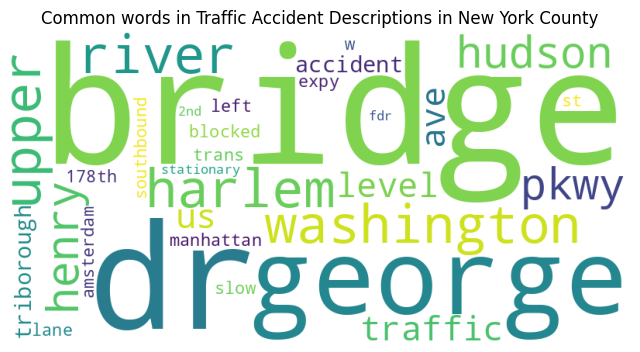
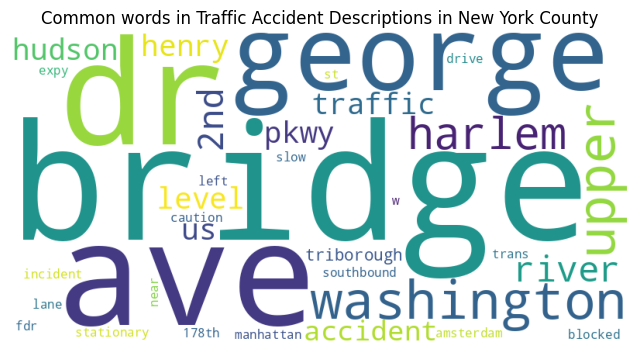
Built site for gh-pages

diff --git a/posts/final_proj.html b/posts/final_proj.html
@@ -212,15 +212,15 @@ pre > code.sourceCode > span > a:first-child::before { text-decoration: underlin
 <p>My dataset is from Kaggle regarding US traffic accidents from 2016-2023 that has data obtained from various places like US and State departments of transportation, and law enforcement agencies. I condensed the original dataset down from 500k entries to around 1500 entries as the file was too large for efficient analysis and visualization. This dataset provides a detailed account of traffic accidents in the United States from February 2016 to March 2023, covering 49 states, and includes key factors like the date, time, city, state, county, weather conditions, severity, etc. of each accident. There is also a description of each accident that can offer a qualitative aspect to this project.</p>
 <p>When conducting data analysis I made sure the columns were in the correct date time format so the data could easily be extracted for visualizations requiring time related features or progressions. I also made sure to handle missing values and filter them out when performing my analysis. I used different libraries for analysis, including Pandas, Matplotlib for plotting the visualizations, and the Natural Language Toolkit (nltk) for text analysis, and wordcloud.</p>
 <p>Source of Dataset:<a href="https://www.kaggle.com/datasets/sobhanmoosavi/us-accidents">Traffic Accident Data</a></p>
-<div id="ec58b350" class="cell" data-execution_count="34">
+<div id="ec58b350" class="cell" data-execution_count="26">
 <div class="sourceCode cell-code" id="cb1"><pre class="sourceCode python code-with-copy"><code class="sourceCode python"><span id="cb1-1"><a href="#cb1-1" aria-hidden="true" tabindex="-1"></a><span class="im">import</span> pandas <span class="im">as</span> pd</span>
 <span id="cb1-2"><a href="#cb1-2" aria-hidden="true" tabindex="-1"></a><span class="im">import</span> matplotlib.pyplot <span class="im">as</span> plt</span>
 <span id="cb1-3"><a href="#cb1-3" aria-hidden="true" tabindex="-1"></a></span></code><button title="Copy to Clipboard" class="code-copy-button"><i class="bi"></i></button></pre></div>
 </div>
-<div id="d318cbe5" class="cell" data-execution_count="35">
+<div id="d318cbe5" class="cell" data-execution_count="27">
 <div class="sourceCode cell-code" id="cb2"><pre class="sourceCode python code-with-copy"><code class="sourceCode python"><span id="cb2-1"><a href="#cb2-1" aria-hidden="true" tabindex="-1"></a>traffic_df <span class="op">=</span> pd.read_csv(<span class="st">'https://raw.githubusercontent.com/sachigill/dhfinalproject/main/traffic_accident_data.csv'</span>)</span></code><button title="Copy to Clipboard" class="code-copy-button"><i class="bi"></i></button></pre></div>
 </div>
-<div id="07d0b8d2" class="cell" data-scrolled="true" data-execution_count="36">
+<div id="07d0b8d2" class="cell" data-scrolled="true" data-execution_count="28">
 <div class="sourceCode cell-code" id="cb3"><pre class="sourceCode python code-with-copy"><code class="sourceCode python"><span id="cb3-1"><a href="#cb3-1" aria-hidden="true" tabindex="-1"></a>plt.figure(figsize<span class="op">=</span>(<span class="dv">12</span>, <span class="dv">8</span>))</span>
 <span id="cb3-2"><a href="#cb3-2" aria-hidden="true" tabindex="-1"></a>traffic_df[<span class="st">'Weather_Condition'</span>].value_counts().plot(kind<span class="op">=</span><span class="st">'bar'</span>)</span>
 <span id="cb3-3"><a href="#cb3-3" aria-hidden="true" tabindex="-1"></a>plt.xlabel(<span class="st">'Weather Condition'</span>)</span>
@@ -236,7 +236,7 @@ pre > code.sourceCode > span > a:first-child::before { text-decoration: underlin
 </div>
 </div>
 <p>Here in this visualization I analyzed accidents by weather condition, where it shows that the largest number of accidents seems to happen in fair weather, with mostly cloudy, clear, cloudy, partly cloudy, and overcast trailing behind that. This could be due to the fact that fair or cloudy weather is typically common so more accidents happen due to the sheer amount that this weather is present in daily life.</p>
-<div id="840b9dc6" class="cell" data-execution_count="53">
+<div id="840b9dc6" class="cell" data-execution_count="29">
 <div class="sourceCode cell-code" id="cb4"><pre class="sourceCode python code-with-copy"><code class="sourceCode python"><span id="cb4-1"><a href="#cb4-1" aria-hidden="true" tabindex="-1"></a><span class="im">from</span> wordcloud <span class="im">import</span> WordCloud</span>
 <span id="cb4-2"><a href="#cb4-2" aria-hidden="true" tabindex="-1"></a><span class="im">import</span> nltk</span>
 <span id="cb4-3"><a href="#cb4-3" aria-hidden="true" tabindex="-1"></a><span class="im">import</span> re</span>
@@ -262,24 +262,26 @@ pre > code.sourceCode > span > a:first-child::before { text-decoration: underlin
 [nltk_data]   Package stopwords is already up-to-date!</code></pre>
 </div>
 </div>
-<div id="02f3e09c" class="cell" data-execution_count="54">
-<div class="sourceCode cell-code" id="cb6"><pre class="sourceCode python code-with-copy"><code class="sourceCode python"><span id="cb6-1"><a href="#cb6-1" aria-hidden="true" tabindex="-1"></a>county <span class="op">=</span> <span class="st">'Los Angeles'</span></span>
-<span id="cb6-2"><a href="#cb6-2" aria-hidden="true" tabindex="-1"></a>traffic_df_location <span class="op">=</span> traffic_df[traffic_df[<span class="st">'County'</span>] <span class="op">==</span> county]</span>
+<div id="02f3e09c" class="cell" data-execution_count="30">
+<div class="sourceCode cell-code" id="cb6"><pre class="sourceCode python code-with-copy"><code class="sourceCode python"><span id="cb6-1"><a href="#cb6-1" aria-hidden="true" tabindex="-1"></a>traffic_df[<span class="st">'description_final'</span>] <span class="op">=</span> traffic_df[<span class="st">'Description'</span>].<span class="bu">apply</span>(<span class="kw">lambda</span> x: text_process(x, stop_words))</span>
+<span id="cb6-2"><a href="#cb6-2" aria-hidden="true" tabindex="-1"></a></span>
 <span id="cb6-3"><a href="#cb6-3" aria-hidden="true" tabindex="-1"></a></span>
-<span id="cb6-4"><a href="#cb6-4" aria-hidden="true" tabindex="-1"></a></span>
-<span id="cb6-5"><a href="#cb6-5" aria-hidden="true" tabindex="-1"></a>traffic_df[<span class="st">'description_final'</span>] <span class="op">=</span> traffic_df[<span class="st">'Description'</span>].<span class="bu">apply</span>(<span class="kw">lambda</span> x: text_process(x, stop_words))</span>
+<span id="cb6-4"><a href="#cb6-4" aria-hidden="true" tabindex="-1"></a>county <span class="op">=</span> <span class="st">'Los Angeles'</span></span>
+<span id="cb6-5"><a href="#cb6-5" aria-hidden="true" tabindex="-1"></a>traffic_df_location <span class="op">=</span> traffic_df[traffic_df[<span class="st">'County'</span>] <span class="op">==</span> county]</span>
 <span id="cb6-6"><a href="#cb6-6" aria-hidden="true" tabindex="-1"></a></span>
-<span id="cb6-7"><a href="#cb6-7" aria-hidden="true" tabindex="-1"></a>all_descriptions_location <span class="op">=</span> <span class="st">' '</span>.join(traffic_df_location[<span class="st">'description_final'</span>])</span>
+<span id="cb6-7"><a href="#cb6-7" aria-hidden="true" tabindex="-1"></a></span>
 <span id="cb6-8"><a href="#cb6-8" aria-hidden="true" tabindex="-1"></a></span>
-<span id="cb6-9"><a href="#cb6-9" aria-hidden="true" tabindex="-1"></a></span>
-<span id="cb6-10"><a href="#cb6-10" aria-hidden="true" tabindex="-1"></a>wordcloud <span class="op">=</span> WordCloud(width<span class="op">=</span><span class="dv">800</span>, height<span class="op">=</span><span class="dv">400</span>, background_color<span class="op">=</span><span class="st">'white'</span>).generate(all_descriptions_location)</span>
+<span id="cb6-9"><a href="#cb6-9" aria-hidden="true" tabindex="-1"></a>all_descriptions_location <span class="op">=</span> <span class="st">' '</span>.join(traffic_df_location[<span class="st">'description_final'</span>])</span>
+<span id="cb6-10"><a href="#cb6-10" aria-hidden="true" tabindex="-1"></a></span>
 <span id="cb6-11"><a href="#cb6-11" aria-hidden="true" tabindex="-1"></a></span>
-<span id="cb6-12"><a href="#cb6-12" aria-hidden="true" tabindex="-1"></a></span>
-<span id="cb6-13"><a href="#cb6-13" aria-hidden="true" tabindex="-1"></a>plt.figure(figsize<span class="op">=</span>(<span class="dv">8</span>, <span class="dv">5</span>))</span>
-<span id="cb6-14"><a href="#cb6-14" aria-hidden="true" tabindex="-1"></a>plt.imshow(wordcloud)</span>
-<span id="cb6-15"><a href="#cb6-15" aria-hidden="true" tabindex="-1"></a>plt.axis(<span class="st">'off'</span>)</span>
-<span id="cb6-16"><a href="#cb6-16" aria-hidden="true" tabindex="-1"></a>plt.title(<span class="ss">f'Common words in Traffic Accident Descriptions in Los Angeles County'</span>)</span>
-<span id="cb6-17"><a href="#cb6-17" aria-hidden="true" tabindex="-1"></a>plt.show()</span></code><button title="Copy to Clipboard" class="code-copy-button"><i class="bi"></i></button></pre></div>
+<span id="cb6-12"><a href="#cb6-12" aria-hidden="true" tabindex="-1"></a>wordcloud <span class="op">=</span> WordCloud(width<span class="op">=</span><span class="dv">800</span>, height<span class="op">=</span><span class="dv">400</span>, background_color<span class="op">=</span><span class="st">'white'</span>).generate(all_descriptions_location)</span>
+<span id="cb6-13"><a href="#cb6-13" aria-hidden="true" tabindex="-1"></a></span>
+<span id="cb6-14"><a href="#cb6-14" aria-hidden="true" tabindex="-1"></a></span>
+<span id="cb6-15"><a href="#cb6-15" aria-hidden="true" tabindex="-1"></a>plt.figure(figsize<span class="op">=</span>(<span class="dv">8</span>, <span class="dv">5</span>))</span>
+<span id="cb6-16"><a href="#cb6-16" aria-hidden="true" tabindex="-1"></a>plt.imshow(wordcloud)</span>
+<span id="cb6-17"><a href="#cb6-17" aria-hidden="true" tabindex="-1"></a>plt.axis(<span class="st">'off'</span>)</span>
+<span id="cb6-18"><a href="#cb6-18" aria-hidden="true" tabindex="-1"></a>plt.title(<span class="ss">f'Common words in Traffic Accident Descriptions in Los Angeles County'</span>)</span>
+<span id="cb6-19"><a href="#cb6-19" aria-hidden="true" tabindex="-1"></a>plt.show()</span></code><button title="Copy to Clipboard" class="code-copy-button"><i class="bi"></i></button></pre></div>
 <div class="cell-output cell-output-display">
 <div>
 <figure class="figure">
@@ -288,7 +290,7 @@ pre > code.sourceCode > span > a:first-child::before { text-decoration: underlin
 </div>
 </div>
 </div>
-<div id="8729e7d7" class="cell" data-execution_count="51">
+<div id="8729e7d7" class="cell" data-execution_count="31">
 <div class="sourceCode cell-code" id="cb7"><pre class="sourceCode python code-with-copy"><code class="sourceCode python"><span id="cb7-1"><a href="#cb7-1" aria-hidden="true" tabindex="-1"></a>county <span class="op">=</span> <span class="st">'New York'</span></span>
 <span id="cb7-2"><a href="#cb7-2" aria-hidden="true" tabindex="-1"></a>traffic_df_location <span class="op">=</span> traffic_df[traffic_df[<span class="st">'County'</span>] <span class="op">==</span> county]</span>
 <span id="cb7-3"><a href="#cb7-3" aria-hidden="true" tabindex="-1"></a></span>
@@ -315,7 +317,7 @@ pre > code.sourceCode > span > a:first-child::before { text-decoration: underlin
 </div>
 </div>
 </div>
-<div id="62bf3d7e" class="cell" data-execution_count="52">
+<div id="62bf3d7e" class="cell" data-execution_count="32">
 <div class="sourceCode cell-code" id="cb8"><pre class="sourceCode python code-with-copy"><code class="sourceCode python"><span id="cb8-1"><a href="#cb8-1" aria-hidden="true" tabindex="-1"></a>county <span class="op">=</span> <span class="st">'San Francisco'</span></span>
 <span id="cb8-2"><a href="#cb8-2" aria-hidden="true" tabindex="-1"></a>traffic_df_location <span class="op">=</span> traffic_df[traffic_df[<span class="st">'County'</span>] <span class="op">==</span> county]</span>
 <span id="cb8-3"><a href="#cb8-3" aria-hidden="true" tabindex="-1"></a></span>
@@ -344,7 +346,7 @@ pre > code.sourceCode > span > a:first-child::before { text-decoration: underlin
 </div>
 </div>
 <p>In regards to LA County, common words include “blvd”, “exit”, “fwy”, “slow traffic” and “ave”. For New York I notice the standout words are “bridge”, “hudson”, “river”, and “harlem”. Looking at SF County words such as “westbound”, “market”, “polk”, and “blocked” stand out. I notice exit seems to be more popular in regards to LA which can indicate the urban structure of the city itself plays a role in where these accidents happen. The LA area is more car centric compared to more urban and condensed areas like New York and SF so making it reasonable that words like freeway or exit are more apparent in their accident descriptions.</p>
-<div id="6cabbd0b" class="cell" data-execution_count="39">
+<div id="6cabbd0b" class="cell" data-execution_count="24">
 <div class="sourceCode cell-code" id="cb9"><pre class="sourceCode python code-with-copy"><code class="sourceCode python"><span id="cb9-1"><a href="#cb9-1" aria-hidden="true" tabindex="-1"></a>accident_per_state <span class="op">=</span> traffic_df.groupby(<span class="st">'State'</span>).size().reset_index(name<span class="op">=</span><span class="st">'Number_of_Accidents'</span>)</span>
 <span id="cb9-2"><a href="#cb9-2" aria-hidden="true" tabindex="-1"></a></span>
 <span id="cb9-3"><a href="#cb9-3" aria-hidden="true" tabindex="-1"></a></span>
@@ -368,7 +370,7 @@ pre > code.sourceCode > span > a:first-child::before { text-decoration: underlin
 </div>
 </div>
 <p>In regards to the number of accidents by state, California, Florida, and Texas take the spots, however these are also the states with the highest population numbers so it’s difficult to make assumptions based on this as this is most likely due to the sheer number of people that live in these states.</p>
-<div id="99585614" class="cell" data-execution_count="40">
+<div id="99585614" class="cell" data-execution_count="14">
 <div class="sourceCode cell-code" id="cb10"><pre class="sourceCode python code-with-copy"><code class="sourceCode python"><span id="cb10-1"><a href="#cb10-1" aria-hidden="true" tabindex="-1"></a>severity_by_state <span class="op">=</span> traffic_df.groupby(<span class="st">'State'</span>)[<span class="st">'Severity'</span>].mean().reset_index()</span>
 <span id="cb10-2"><a href="#cb10-2" aria-hidden="true" tabindex="-1"></a></span>
 <span id="cb10-3"><a href="#cb10-3" aria-hidden="true" tabindex="-1"></a><span class="co">#sorting by severity</span></span>
@@ -392,7 +394,7 @@ pre > code.sourceCode > span > a:first-child::before { text-decoration: underlin
 </div>
 </div>
 <p>When viewing average severity by state, the top spots were surprisingly different from the number of accidents by state; in this case Wisconsin, Rhode Island, Nevada, and Maryland, Illinois, Georgia, and Mississippi have the highest average severity. This could be due to the fact these states are less populated and may not have as good road infrastructure compared to other states. After some research I found that Misisisipi is also known to have some of the poorest lighting in the country and high rates of drunk driving which could also contribute to the severity of these accidents.</p>
-<div id="884f7daa" class="cell" data-execution_count="41">
+<div id="884f7daa" class="cell">
 <div class="sourceCode cell-code" id="cb11"><pre class="sourceCode python code-with-copy"><code class="sourceCode python"><span id="cb11-1"><a href="#cb11-1" aria-hidden="true" tabindex="-1"></a>avg_severity_by_weather <span class="op">=</span> traffic_df.groupby(<span class="st">'Weather_Condition'</span>)[<span class="st">'Severity'</span>].mean().reset_index()</span>
 <span id="cb11-2"><a href="#cb11-2" aria-hidden="true" tabindex="-1"></a>avg_severity_by_weather <span class="op">=</span> avg_severity_by_weather.sort_values(by<span class="op">=</span><span class="st">'Severity'</span>, ascending<span class="op">=</span><span class="va">False</span>)</span>
 <span id="cb11-3"><a href="#cb11-3" aria-hidden="true" tabindex="-1"></a></span>
@@ -404,16 +406,9 @@ pre > code.sourceCode > span > a:first-child::before { text-decoration: underlin
 <span id="cb11-9"><a href="#cb11-9" aria-hidden="true" tabindex="-1"></a>plt.xticks(rotation<span class="op">=</span><span class="dv">50</span>, fontsize<span class="op">=</span><span class="dv">11</span>)</span>
 <span id="cb11-10"><a href="#cb11-10" aria-hidden="true" tabindex="-1"></a>plt.yticks(fontsize<span class="op">=</span><span class="dv">18</span>)</span>
 <span id="cb11-11"><a href="#cb11-11" aria-hidden="true" tabindex="-1"></a>plt.show()</span></code><button title="Copy to Clipboard" class="code-copy-button"><i class="bi"></i></button></pre></div>
-<div class="cell-output cell-output-display">
-<div>
-<figure class="figure">
-<p><img src="final_proj_files/figure-html/cell-11-output-1.png" class="img-fluid figure-img"></p>
-</figure>
-</div>
-</div>
 </div>
 <p>In terms of weather conditions by severity of accident, light freezing drizzle, shallow fog, and thunderstorm, light rain with thunder correlate with the highest average severity of accidents. This indicates that even though more accidents might happen in fair weather, the severity of the accident has a connection to harsher weather.</p>
-<div id="09fd2821" class="cell" data-execution_count="42">
+<div id="09fd2821" class="cell">
 <div class="sourceCode cell-code" id="cb12"><pre class="sourceCode python code-with-copy"><code class="sourceCode python"><span id="cb12-1"><a href="#cb12-1" aria-hidden="true" tabindex="-1"></a>traffic_df[<span class="st">'Wind_Speed(mph)'</span>] <span class="op">=</span> pd.to_numeric(traffic_df[<span class="st">'Wind_Speed(mph)'</span>], errors<span class="op">=</span><span class="st">'coerce'</span>)</span>
 <span id="cb12-2"><a href="#cb12-2" aria-hidden="true" tabindex="-1"></a>traffic_df <span class="op">=</span> traffic_df.dropna(subset<span class="op">=</span>[<span class="st">'Wind_Speed(mph)'</span>])</span>
 <span id="cb12-3"><a href="#cb12-3" aria-hidden="true" tabindex="-1"></a></span>
@@ -428,15 +423,8 @@ pre > code.sourceCode > span > a:first-child::before { text-decoration: underlin
 <span id="cb12-12"><a href="#cb12-12" aria-hidden="true" tabindex="-1"></a>plt.title(<span class="st">'Number of Accidents by Wind Speed'</span>, fontsize<span class="op">=</span><span class="dv">20</span>)</span>
 <span id="cb12-13"><a href="#cb12-13" aria-hidden="true" tabindex="-1"></a>plt.grid(<span class="va">True</span>)</span>
 <span id="cb12-14"><a href="#cb12-14" aria-hidden="true" tabindex="-1"></a>plt.show()</span></code><button title="Copy to Clipboard" class="code-copy-button"><i class="bi"></i></button></pre></div>
-<div class="cell-output cell-output-display">
-<div>
-<figure class="figure">
-<p><img src="final_proj_files/figure-html/cell-12-output-1.png" class="img-fluid figure-img"></p>
-</figure>
 </div>
-</div>
-</div>
-<div id="51d3cc03" class="cell" data-execution_count="43">
+<div id="51d3cc03" class="cell">
 <div class="sourceCode cell-code" id="cb13"><pre class="sourceCode python code-with-copy"><code class="sourceCode python"><span id="cb13-1"><a href="#cb13-1" aria-hidden="true" tabindex="-1"></a>traffic_df[<span class="st">'Severity'</span>] <span class="op">=</span> pd.to_numeric(traffic_df[<span class="st">'Severity'</span>], errors<span class="op">=</span><span class="st">'coerce'</span>)</span>
 <span id="cb13-2"><a href="#cb13-2" aria-hidden="true" tabindex="-1"></a>traffic_df[<span class="st">'Wind_Speed(mph)'</span>] <span class="op">=</span> pd.to_numeric(traffic_df[<span class="st">'Wind_Speed(mph)'</span>], errors<span class="op">=</span><span class="st">'coerce'</span>)</span>
 <span id="cb13-3"><a href="#cb13-3" aria-hidden="true" tabindex="-1"></a></span>
@@ -454,16 +442,9 @@ pre > code.sourceCode > span > a:first-child::before { text-decoration: underlin
 <span id="cb13-15"><a href="#cb13-15" aria-hidden="true" tabindex="-1"></a>plt.title(<span class="st">'Average Severity of Accidents by Wind Speed'</span>, fontsize<span class="op">=</span><span class="dv">20</span>)</span>
 <span id="cb13-16"><a href="#cb13-16" aria-hidden="true" tabindex="-1"></a>plt.grid(<span class="va">True</span>)</span>
 <span id="cb13-17"><a href="#cb13-17" aria-hidden="true" tabindex="-1"></a>plt.show()</span></code><button title="Copy to Clipboard" class="code-copy-button"><i class="bi"></i></button></pre></div>
-<div class="cell-output cell-output-display">
-<div>
-<figure class="figure">
-<p><img src="final_proj_files/figure-html/cell-13-output-1.png" class="img-fluid figure-img"></p>
-</figure>
-</div>
-</div>
 </div>
 <p>I then wanted to analyze the number of accidents based on other weather factors like wind speed. Based on the plot, the higher the wind speed the less accidents that seem to occur, however this is fitting with the previous data that shows most accidents occur in fair weather so it makes sense there are less accidents with higher wind speeds. However when looking at average severity of accidents by wind speed there is more of a pattern showing higher severity is correlated with higher wind speed. Although there are many accidents with high wind speeds and not high severity, the only points of high severity such as 3 and over, are all correlated with higher wind speeds around over 20 mph.</p>
-<div id="fd4a0821" class="cell" data-execution_count="44">
+<div id="fd4a0821" class="cell">
 <div class="sourceCode cell-code" id="cb14"><pre class="sourceCode python code-with-copy"><code class="sourceCode python"><span id="cb14-1"><a href="#cb14-1" aria-hidden="true" tabindex="-1"></a>traffic_df[<span class="st">'Start_Time'</span>] <span class="op">=</span> pd.to_datetime(traffic_df[<span class="st">'Start_Time'</span>], errors<span class="op">=</span><span class="st">'coerce'</span>)</span>
 <span id="cb14-2"><a href="#cb14-2" aria-hidden="true" tabindex="-1"></a>traffic_df <span class="op">=</span> traffic_df.dropna(subset<span class="op">=</span>[<span class="st">'Start_Time'</span>])</span>
 <span id="cb14-3"><a href="#cb14-3" aria-hidden="true" tabindex="-1"></a></span>
@@ -492,15 +473,8 @@ pre > code.sourceCode > span > a:first-child::before { text-decoration: underlin
 <span id="cb14-26"><a href="#cb14-26" aria-hidden="true" tabindex="-1"></a>plt.grid(<span class="va">True</span>) </span>
 <span id="cb14-27"><a href="#cb14-27" aria-hidden="true" tabindex="-1"></a>plt.legend(title<span class="op">=</span><span class="st">'Weather Condition'</span>, fontsize<span class="op">=</span><span class="dv">12</span>)</span>
 <span id="cb14-28"><a href="#cb14-28" aria-hidden="true" tabindex="-1"></a>plt.show()</span></code><button title="Copy to Clipboard" class="code-copy-button"><i class="bi"></i></button></pre></div>
-<div class="cell-output cell-output-display">
-<div>
-<figure class="figure">
-<p><img src="final_proj_files/figure-html/cell-14-output-1.png" class="img-fluid figure-img"></p>
-</figure>
 </div>
-</div>
-</div>
-<div id="54306a95" class="cell" data-execution_count="45">
+<div id="54306a95" class="cell">
 <div class="sourceCode cell-code" id="cb15"><pre class="sourceCode python code-with-copy"><code class="sourceCode python"><span id="cb15-1"><a href="#cb15-1" aria-hidden="true" tabindex="-1"></a>traffic_df[<span class="st">'Start_Time'</span>] <span class="op">=</span> pd.to_datetime(traffic_df[<span class="st">'Start_Time'</span>], errors<span class="op">=</span><span class="st">'coerce'</span>)</span>
 <span id="cb15-2"><a href="#cb15-2" aria-hidden="true" tabindex="-1"></a>traffic_df <span class="op">=</span> traffic_df.dropna(subset<span class="op">=</span>[<span class="st">'Start_Time'</span>])</span>
 <span id="cb15-3"><a href="#cb15-3" aria-hidden="true" tabindex="-1"></a>traffic_df[<span class="st">'Hour'</span>] <span class="op">=</span> traffic_df[<span class="st">'Start_Time'</span>].dt.hour</span>
@@ -520,16 +494,9 @@ pre > code.sourceCode > span > a:first-child::before { text-decoration: underlin
 <span id="cb15-17"><a href="#cb15-17" aria-hidden="true" tabindex="-1"></a>plt.yticks(fontsize<span class="op">=</span><span class="dv">14</span>)</span>
 <span id="cb15-18"><a href="#cb15-18" aria-hidden="true" tabindex="-1"></a></span>
 <span id="cb15-19"><a href="#cb15-19" aria-hidden="true" tabindex="-1"></a>plt.show()</span></code><button title="Copy to Clipboard" class="code-copy-button"><i class="bi"></i></button></pre></div>
-<div class="cell-output cell-output-display">
-<div>
-<figure class="figure">
-<p><img src="final_proj_files/figure-html/cell-15-output-1.png" class="img-fluid figure-img"></p>
-</figure>
-</div>
-</div>
 </div>
 <p>For average accident severity by the hour of the day there doesn’t seem to be a huge difference although it seems the severity is worse at night, 3-4 am or around 11pm, which could be related to the fact it’s dark and less cars out, so there’s a chance of speeding and lack of visibility that could add to the severity of these accidents.</p>
-<div id="3fb2102d" class="cell" data-execution_count="46">
+<div id="3fb2102d" class="cell">
 <div class="sourceCode cell-code" id="cb16"><pre class="sourceCode python code-with-copy"><code class="sourceCode python"><span id="cb16-1"><a href="#cb16-1" aria-hidden="true" tabindex="-1"></a>traffic_df[<span class="st">'Start_Time'</span>] <span class="op">=</span> pd.to_datetime(traffic_df[<span class="st">'Start_Time'</span>], errors<span class="op">=</span><span class="st">'coerce'</span>)</span>
 <span id="cb16-2"><a href="#cb16-2" aria-hidden="true" tabindex="-1"></a></span>
 <span id="cb16-3"><a href="#cb16-3" aria-hidden="true" tabindex="-1"></a><span class="co"># Drop rows with NaT values in 'Start_Time'</span></span>
@@ -554,16 +521,9 @@ pre > code.sourceCode > span > a:first-child::before { text-decoration: underlin
 <span id="cb16-22"><a href="#cb16-22" aria-hidden="true" tabindex="-1"></a>plt.yticks(fontsize<span class="op">=</span><span class="dv">14</span>)</span>
 <span id="cb16-23"><a href="#cb16-23" aria-hidden="true" tabindex="-1"></a></span>
 <span id="cb16-24"><a href="#cb16-24" aria-hidden="true" tabindex="-1"></a>plt.show()</span></code><button title="Copy to Clipboard" class="code-copy-button"><i class="bi"></i></button></pre></div>
-<div class="cell-output cell-output-display">
-<div>
-<figure class="figure">
-<p><img src="final_proj_files/figure-html/cell-16-output-1.png" class="img-fluid figure-img"></p>
-</figure>
-</div>
-</div>
 </div>
 <p>However when looking at the number of accidents by hour of day 7 and 8am, and around 4pm seem to have the most accidents occurring, which could be attributed to the fact that during those times its peak commute hours and the most cars are out on the road. On the other hand 2 and 3am have the least amount of accidents occuring; these are prime sleeping hours indicating the least amount of cars are probably on the road.</p>
-<div id="172ca27c" class="cell" data-execution_count="47">
+<div id="172ca27c" class="cell">
 <div class="sourceCode cell-code" id="cb17"><pre class="sourceCode python code-with-copy"><code class="sourceCode python"><span id="cb17-1"><a href="#cb17-1" aria-hidden="true" tabindex="-1"></a>traffic_df[<span class="st">'Start_Time'</span>] <span class="op">=</span> pd.to_datetime(traffic_df[<span class="st">'Start_Time'</span>], errors<span class="op">=</span><span class="st">'coerce'</span>)</span>
 <span id="cb17-2"><a href="#cb17-2" aria-hidden="true" tabindex="-1"></a>traffic_df <span class="op">=</span> traffic_df.dropna(subset<span class="op">=</span>[<span class="st">'Start_Time'</span>])</span>
 <span id="cb17-3"><a href="#cb17-3" aria-hidden="true" tabindex="-1"></a>traffic_df[<span class="st">'Hour'</span>] <span class="op">=</span> traffic_df[<span class="st">'Start_Time'</span>].dt.hour</span>
@@ -579,16 +539,9 @@ pre > code.sourceCode > span > a:first-child::before { text-decoration: underlin
 <span id="cb17-13"><a href="#cb17-13" aria-hidden="true" tabindex="-1"></a>plt.yticks(fontsize<span class="op">=</span><span class="dv">14</span>)</span>
 <span id="cb17-14"><a href="#cb17-14" aria-hidden="true" tabindex="-1"></a>plt.grid(<span class="va">True</span>)</span>
 <span id="cb17-15"><a href="#cb17-15" aria-hidden="true" tabindex="-1"></a>plt.show()</span></code><button title="Copy to Clipboard" class="code-copy-button"><i class="bi"></i></button></pre></div>
-<div class="cell-output cell-output-display">
-<div>
-<figure class="figure">
-<p><img src="final_proj_files/figure-html/cell-17-output-1.png" class="img-fluid figure-img"></p>
-</figure>
-</div>
-</div>
 </div>
 <p>When looking at the graph with both of these factors combined onto one plot it’s easy to see that the main commuting hours like morning and early evening/later afternoon take the spot for a higher number of accidents. However when looking at severity, the percentage of severity is slightly higher for those slightly later times. For example at 8 am around 20% of accidents fall under higher severity of 3 and 4 whereas at 7 pm closer to 25% of accidents fall under the more severe category which could be correlated to lighting factors.</p>
-<div id="56344996" class="cell" data-execution_count="48">
+<div id="56344996" class="cell">
 <div class="sourceCode cell-code" id="cb18"><pre class="sourceCode python code-with-copy"><code class="sourceCode python"><span id="cb18-1"><a href="#cb18-1" aria-hidden="true" tabindex="-1"></a></span>
 <span id="cb18-2"><a href="#cb18-2" aria-hidden="true" tabindex="-1"></a></span>
 <span id="cb18-3"><a href="#cb18-3" aria-hidden="true" tabindex="-1"></a></span>
@@ -621,23 +574,9 @@ pre > code.sourceCode > span > a:first-child::before { text-decoration: underlin
 <span id="cb18-30"><a href="#cb18-30" aria-hidden="true" tabindex="-1"></a>plt.title(<span class="st">'Top 15 US Cities with the Highest Severity of Accidents'</span>, fontsize<span class="op">=</span><span class="dv">20</span>)</span>
 <span id="cb18-31"><a href="#cb18-31" aria-hidden="true" tabindex="-1"></a>plt.gca().invert_yaxis()</span>
 <span id="cb18-32"><a href="#cb18-32" aria-hidden="true" tabindex="-1"></a>plt.show()</span></code><button title="Copy to Clipboard" class="code-copy-button"><i class="bi"></i></button></pre></div>
-<div class="cell-output cell-output-display">
-<div>
-<figure class="figure">
-<p><img src="final_proj_files/figure-html/cell-18-output-1.png" class="img-fluid figure-img"></p>
-</figure>
-</div>
-</div>
-<div class="cell-output cell-output-display">
-<div>
-<figure class="figure">
-<p><img src="final_proj_files/figure-html/cell-18-output-2.png" class="img-fluid figure-img"></p>
-</figure>
-</div>
-</div>
 </div>
 <p>I also decided to look at the top 15 cities with the highest number of accidents and highest severity of accidents to see if there were any connections. Miami took the top spot for highest number of accidents which was followed by LA and Charlotte. There is an ongoing stereotype that Florida has the worst drivers, which makes me wonder if overall driver compentence or driver error could potentially play a role in this stat, whether its driver distractions or driving drunk. In terms of highest severity I noticed there were many Pennsylvania cities on this, compared to any other state, which makes me wonder if there is some overarching issue in Pennsylvania whether it’s their laws, infrastructure, or driver type that could be having an impact on the severity of accidents.</p>
-<div id="7c428daf" class="cell" data-execution_count="49">
+<div id="7c428daf" class="cell">
 <div class="sourceCode cell-code" id="cb19"><pre class="sourceCode python code-with-copy"><code class="sourceCode python"><span id="cb19-1"><a href="#cb19-1" aria-hidden="true" tabindex="-1"></a>traffic_df[<span class="st">'Start_Time'</span>] <span class="op">=</span> pd.to_datetime(traffic_df[<span class="st">'Start_Time'</span>])</span>
 <span id="cb19-2"><a href="#cb19-2" aria-hidden="true" tabindex="-1"></a>traffic_df[<span class="st">'year'</span>] <span class="op">=</span> traffic_df[<span class="st">'Start_Time'</span>].dt.year</span>
 <span id="cb19-3"><a href="#cb19-3" aria-hidden="true" tabindex="-1"></a>traffic_df[<span class="st">'month'</span>] <span class="op">=</span> traffic_df[<span class="st">'Start_Time'</span>].dt.month</span>
@@ -655,16 +594,9 @@ pre > code.sourceCode > span > a:first-child::before { text-decoration: underlin
 <span id="cb19-15"><a href="#cb19-15" aria-hidden="true" tabindex="-1"></a>plt.xticks(rotation<span class="op">=</span><span class="dv">45</span>)</span>
 <span id="cb19-16"><a href="#cb19-16" aria-hidden="true" tabindex="-1"></a>plt.grid(<span class="va">True</span>)</span>
 <span id="cb19-17"><a href="#cb19-17" aria-hidden="true" tabindex="-1"></a>plt.show()</span></code><button title="Copy to Clipboard" class="code-copy-button"><i class="bi"></i></button></pre></div>
-<div class="cell-output cell-output-display">
-<div>
-<figure class="figure">
-<p><img src="final_proj_files/figure-html/cell-19-output-1.png" class="img-fluid figure-img"></p>
-</figure>
-</div>
-</div>
 </div>
 <p>Looking at the accidents over time, the numbers seem pretty steady until around sometime in 2019 when the numbers seem to spike, before dropping again around early 2020, which coincides with the time of the major Covid-19 pandemic, indicating the pandemic could’ve caused a reduction in accidents for a period of time since most people were forced to stay home under lockdown restrictions. The numbers then increase by around late 2020 which could potentially be attributed to the trend of reckless driving after the pandemic due to less cars on the road, such as speeding, racing, not wearing seat belts, road rage, or driving under the influence, therefore increasing the overall number of accidents. From late 2022 to early 2023 there does seem to be a significant drop in the number of accidents. Overall there seems to be an increase in accidents compared from pre pandemic times to the post pandemic era which is interesting to see.</p>
-<div id="31022929" class="cell" data-execution_count="50">
+<div id="31022929" class="cell">
 <div class="sourceCode cell-code" id="cb20"><pre class="sourceCode python code-with-copy"><code class="sourceCode python"><span id="cb20-1"><a href="#cb20-1" aria-hidden="true" tabindex="-1"></a>traffic_df[<span class="st">'Start_Time'</span>] <span class="op">=</span> pd.to_datetime(traffic_df[<span class="st">'Start_Time'</span>], errors<span class="op">=</span><span class="st">'coerce'</span>)</span>
 <span id="cb20-2"><a href="#cb20-2" aria-hidden="true" tabindex="-1"></a>traffic_df <span class="op">=</span> traffic_df.dropna(subset<span class="op">=</span>[<span class="st">'Start_Time'</span>])</span>
 <span id="cb20-3"><a href="#cb20-3" aria-hidden="true" tabindex="-1"></a>traffic_df[<span class="st">'Time Period'</span>] <span class="op">=</span> [<span class="st">'Pre-COVID'</span> <span class="cf">if</span> date <span class="op">&lt;</span> pd.Timestamp(<span class="st">'2020-03-01'</span>) <span class="cf">else</span> <span class="st">'Post-COVID'</span> <span class="cf">for</span> date <span class="kw">in</span> traffic_df[<span class="st">'Start_Time'</span>]]</span>
@@ -682,13 +614,6 @@ pre > code.sourceCode > span > a:first-child::before { text-decoration: underlin
 <span id="cb20-15"><a href="#cb20-15" aria-hidden="true" tabindex="-1"></a>plt.legend(title<span class="op">=</span><span class="st">'Time Period'</span>)</span>
 <span id="cb20-16"><a href="#cb20-16" aria-hidden="true" tabindex="-1"></a>plt.grid(<span class="va">True</span>)</span>
 <span id="cb20-17"><a href="#cb20-17" aria-hidden="true" tabindex="-1"></a>plt.show()</span></code><button title="Copy to Clipboard" class="code-copy-button"><i class="bi"></i></button></pre></div>
-<div class="cell-output cell-output-display">
-<div>
-<figure class="figure">
-<p><img src="final_proj_files/figure-html/cell-20-output-1.png" class="img-fluid figure-img"></p>
-</figure>
-</div>
-</div>
 </div>
 <p>Comparing this to the severity of accidents before and after the start of the Covid-19 pandemic, the more severe accidents happened before the pandemic, with there being a drop in severity after March 2020. This could potentially be attributed to multiple factors. With reduced traffic and vehicles on the road, the likelihood of severe multi vehicle collisions occurring may have decreased. During the pandemic essential trips were also much more common like driving to the local grocery store, which usually involves less exposure to freeways or high speed roads lowering the chances of severe accidents. There was also increased visibility and space on the roads with fewer vehicles which allowed drivers more room to navigate and maneuver, potentially avoiding and lowering high impact crashes. Even when lockdown restrictions were over there were many people who still followed a similar routine to protect themselves from Covid, as well as the many people who have continued to work from home which could’ve had an impact on overall accident severity for years after.</p>
 </section>

diff --git a/index.html b/index.html
@@ -205,7 +205,7 @@ window.Quarto = {
 
 <div class="quarto-listing quarto-listing-container-default" id="listing-listing">
 <div class="list quarto-listing-default">
-<div class="quarto-post image-right" data-index="0" data-listing-date-sort="1722816000000" data-listing-file-modified-sort="1722989956939" data-listing-date-modified-sort="1722816000000" data-listing-reading-time-sort="12" data-listing-word-count-sort="2374">
+<div class="quarto-post image-right" data-index="0" data-listing-date-sort="1722816000000" data-listing-file-modified-sort="1722990932470" data-listing-date-modified-sort="1722816000000" data-listing-reading-time-sort="12" data-listing-word-count-sort="2374">
 <div class="thumbnail">
 <p><a href="./posts/final_proj.html" class="no-external"></a></p><a href="./posts/final_proj.html" class="no-external">
 <p class="card-img-top"><img src="posts/final_proj_files/figure-html/cell-4-output-1.png"  class="thumbnail-image card-img"/></p>
